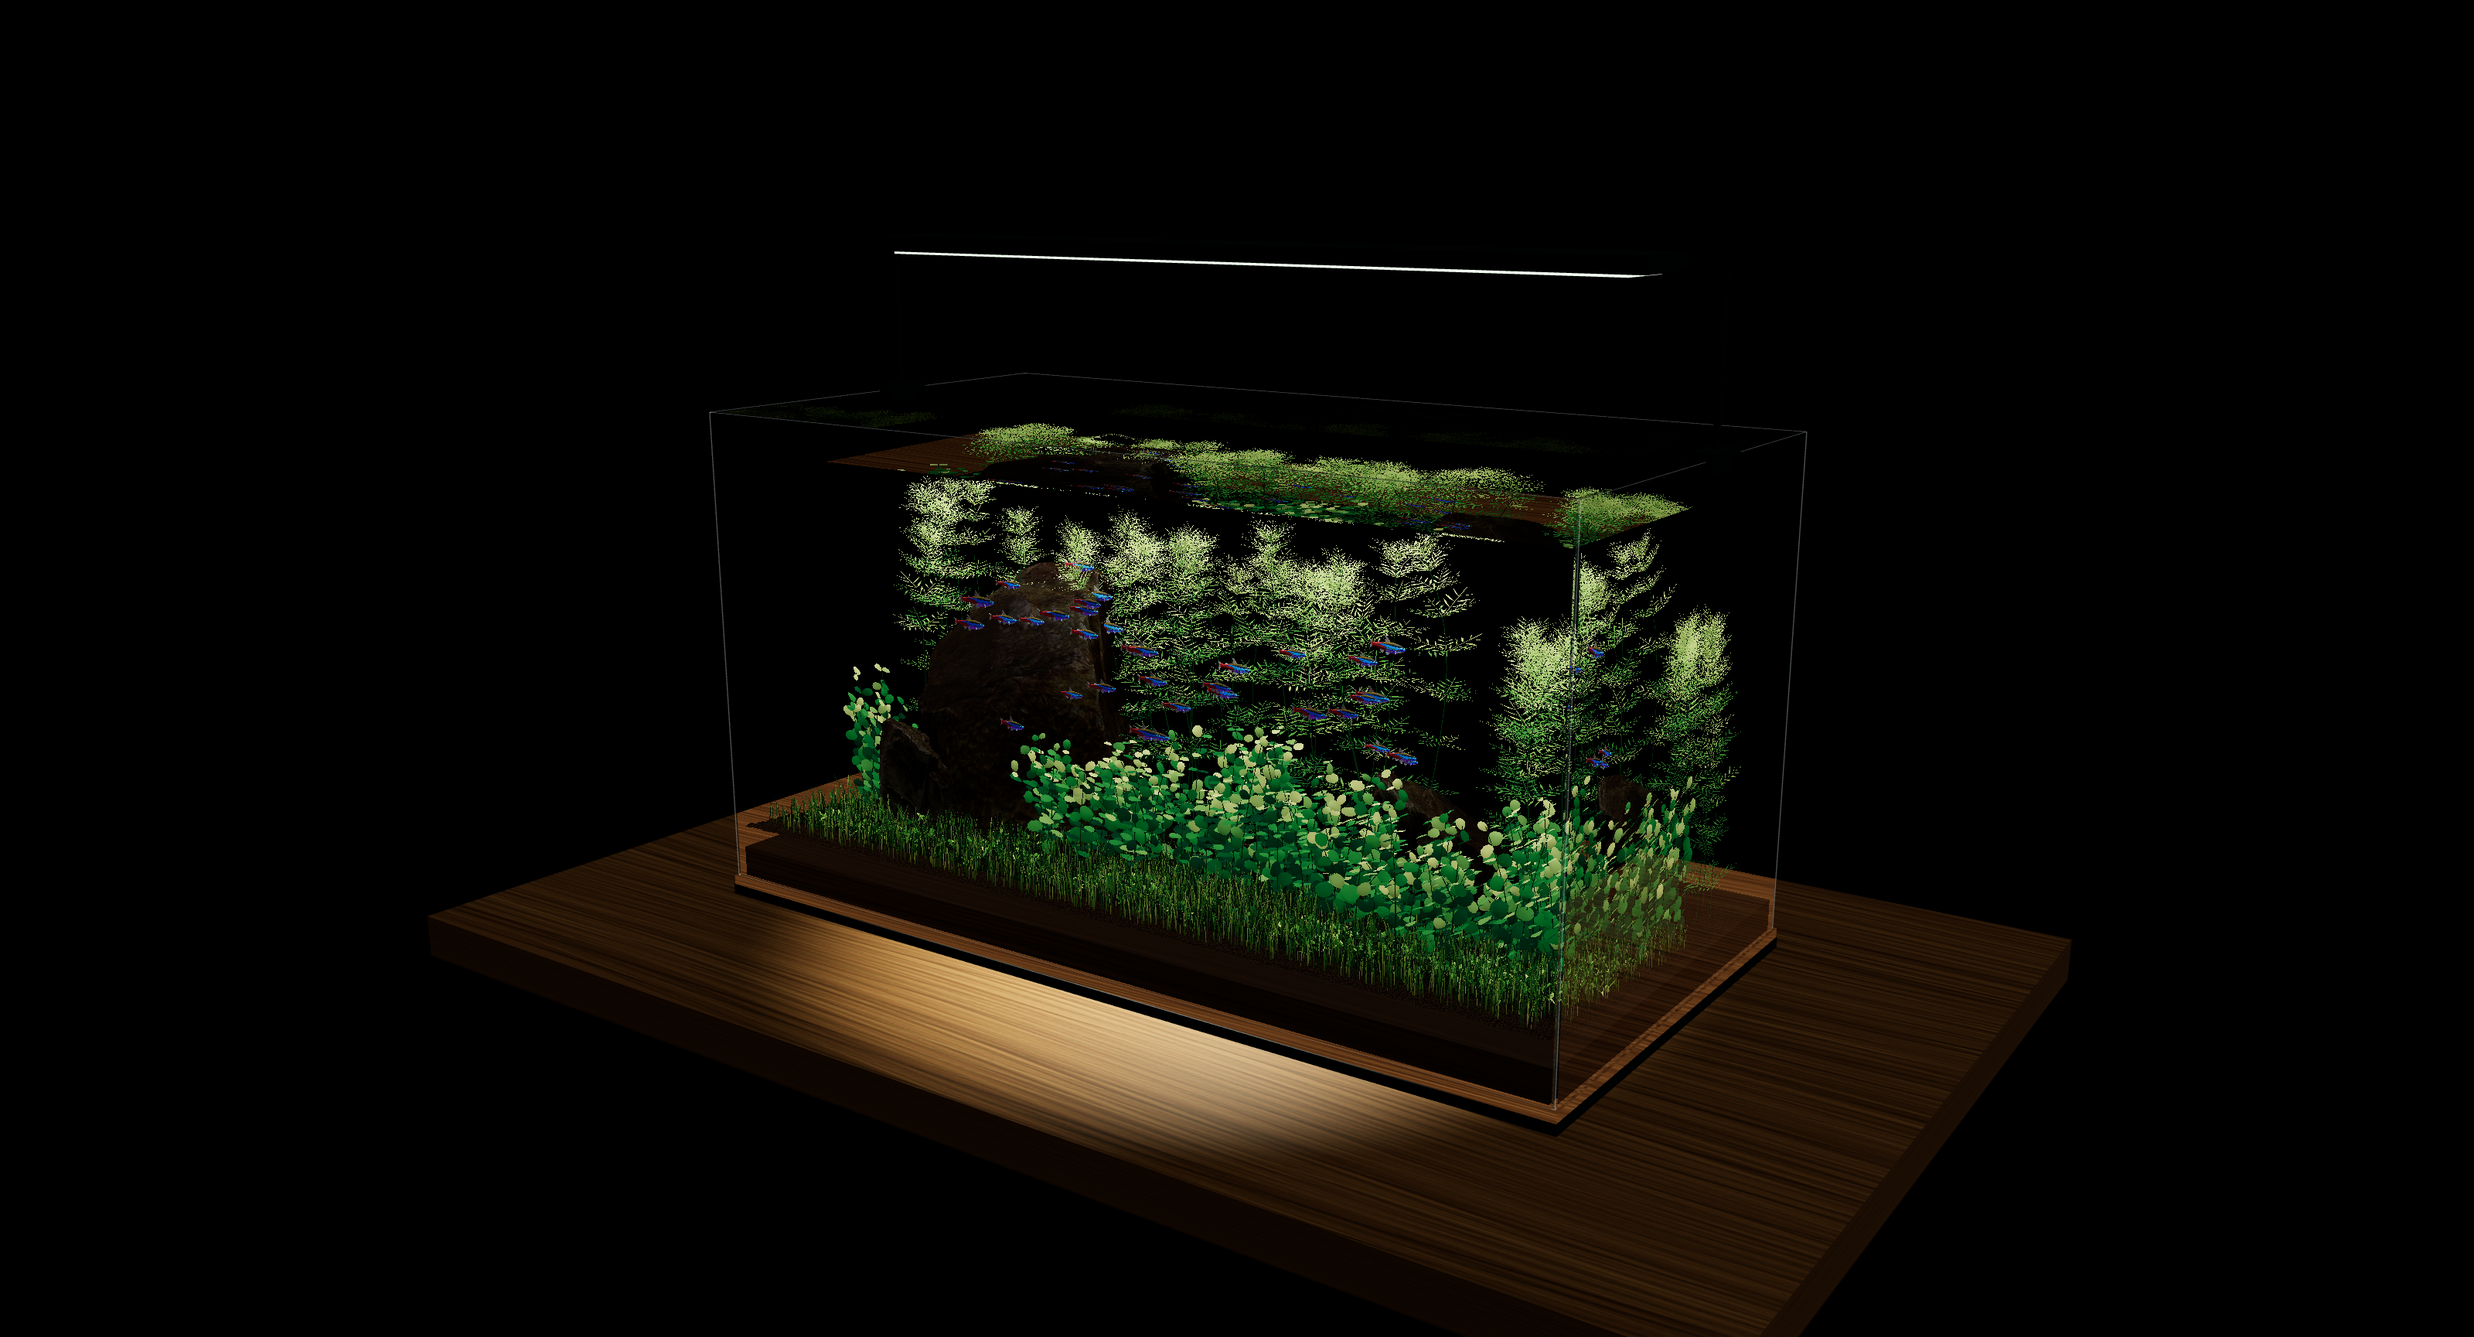
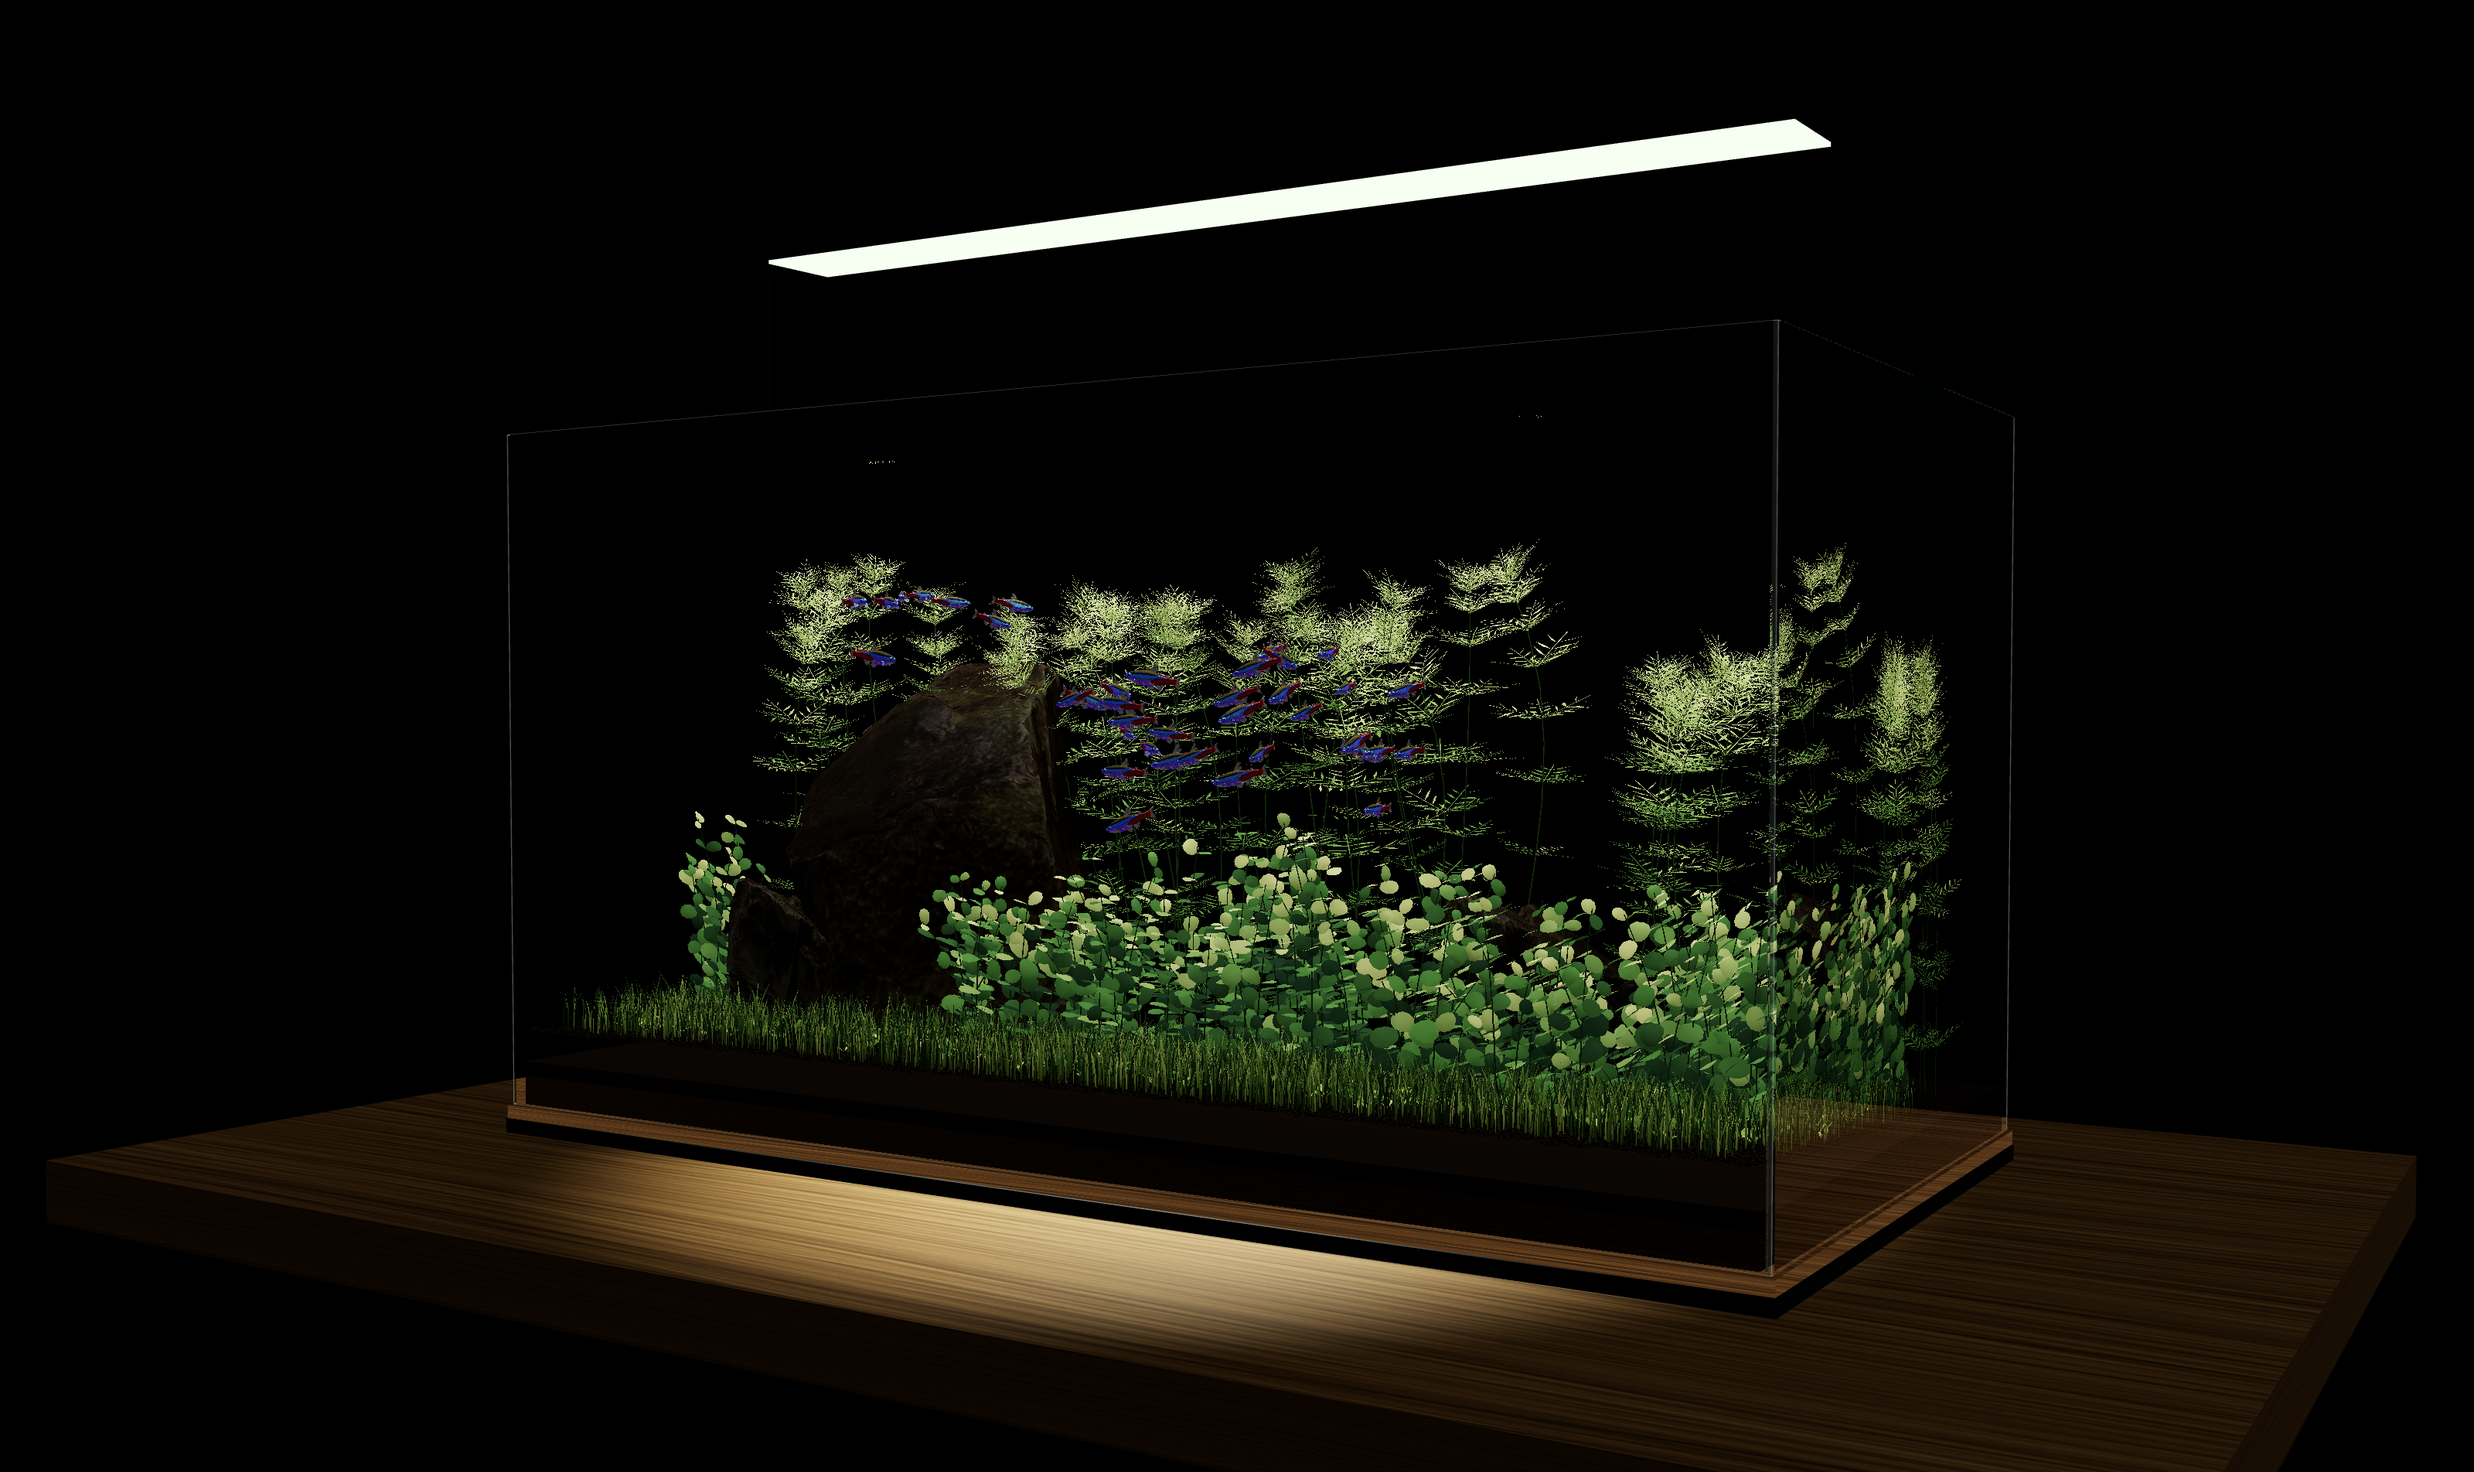
Refresh bilingual gallery with full-resolution aquarium views

Changed region(s): [[0.0312, 0.3123, 1.0, 1.0], [0.3125, 0.0625, 0.75, 0.1874], [0.6562, 0.9994, 0.6875, 1.0]]

diff --git a/README.en.md b/README.en.md
@@ -12,23 +12,27 @@ An interactive Three.js aquarium with water refraction, schooling fish, and proc
 
 **Aquascape**
 
-[![Aquascape close-up](docs/media/aquarium-detail-aquascape.png)](docs/media/aquarium-detail-aquascape.png)
+[![Aquascape overview](docs/media/aquarium-overview.png)](docs/media/aquarium-overview.png)
 
-**Neon tetras and ambulia**
+**Front close-up**
 
-[![Neon tetras swimming among ambulia](docs/media/aquarium-detail-school.png)](docs/media/aquarium-detail-school.png)
+[![Neon tetras and aquatic plants](docs/media/aquarium-front.png)](docs/media/aquarium-front.png)
 
-**Pearlweed and hairgrass**
+**Rear view**
 
-[![Pearlweed leaves and hairgrass carpet](docs/media/aquarium-detail-plants.png)](docs/media/aquarium-detail-plants.png)
+[![Aquascape from the rear](docs/media/aquarium-rear.png)](docs/media/aquarium-rear.png)
 
-<details>
-<summary>Full views</summary>
+**Side view**
 
-![Aquarium overview](docs/media/aquarium-overview.png)
-![Front view](docs/media/aquarium-front.png)
+[![Fish and plants from the side](docs/media/aquarium-side.png)](docs/media/aquarium-side.png)
 
-</details>
+**Surface refraction**
+
+[![Water refraction and reflections](docs/media/aquarium-surface.png)](docs/media/aquarium-surface.png)
+
+**Top view**
+
+[![Aquarium and light from above](docs/media/aquarium-top.png)](docs/media/aquarium-top.png)
 
 ## Features
 
@@ -62,7 +66,8 @@ npm run preview # Preview the build
 | Drag | Orbit the camera |
 | Scroll / pinch | Adjust viewing distance |
 | Click near the fish | Trigger a local startle response and surface ripples |
-| `S` | Save a PNG screenshot |
+| `1` / `2` / `3` | Switch to aquascape, fish, or plant close-ups |
+| `S` | Save a 3840 × 2160 PNG screenshot |
 | `R` | Export a 24-second 1080p demo video |
 
 ## Project structure

diff --git a/README.md b/README.md
@@ -12,23 +12,27 @@
 
 **水草造景**
 
-[![水草造景近景](docs/media/aquarium-detail-aquascape.png)](docs/media/aquarium-detail-aquascape.png)
+[![水草造景全景](docs/media/aquarium-overview.png)](docs/media/aquarium-overview.png)
 
-**霓虹灯鱼与宝塔草**
+**正面近景**
 
-[![霓虹灯鱼与宝塔草细节](docs/media/aquarium-detail-school.png)](docs/media/aquarium-detail-school.png)
+[![霓虹灯鱼与水草近景](docs/media/aquarium-front.png)](docs/media/aquarium-front.png)
 
-**珍珠草与牛毛草**
+**背面视角**
 
-[![珍珠草叶片与牛毛草草坪细节](docs/media/aquarium-detail-plants.png)](docs/media/aquarium-detail-plants.png)
+[![背面水草造景](docs/media/aquarium-rear.png)](docs/media/aquarium-rear.png)
 
-<details>
-<summary>全景视角</summary>
+**侧面视角**
 
-![鱼缸全景](docs/media/aquarium-overview.png)
-![正面视角](docs/media/aquarium-front.png)
+[![侧面鱼群与水草](docs/media/aquarium-side.png)](docs/media/aquarium-side.png)
 
-</details>
+**水面折射**
+
+[![水面折射与倒影](docs/media/aquarium-surface.png)](docs/media/aquarium-surface.png)
+
+**俯视视角**
+
+[![俯视鱼缸与灯光](docs/media/aquarium-top.png)](docs/media/aquarium-top.png)
 
 ## 功能
 
@@ -62,7 +66,8 @@ npm run preview # 预览构建结果
 | 拖动 | 环绕观察 |
 | 滚轮 / 双指缩放 | 调整观察距离 |
 | 点击鱼群附近 | 触发局部惊吓与水面扰动 |
-| `S` | 保存 PNG 截图 |
+| `1` / `2` / `3` | 切换造景、鱼群、水草近景 |
+| `S` | 保存 3840 × 2160 PNG 截图 |
 | `R` | 导出 24 秒的 1080p 演示视频 |
 
 ## 代码结构

diff --git a/docs/media/README.md b/docs/media/README.md
@@ -4,11 +4,12 @@
 
 | 文件 | 规格 |
 | --- | --- |
-| [水草造景近景](aquarium-detail-aquascape.png) | 1920 × 1080，PNG |
-| [霓虹灯鱼与宝塔草](aquarium-detail-school.png) | 1280 × 720，PNG |
-| [珍珠草与牛毛草](aquarium-detail-plants.png) | 1280 × 720，PNG |
-| [全景截图](aquarium-overview.png) | 3200 × 1729，PNG |
-| [正面截图](aquarium-front.png) | 1920 × 1080，PNG |
+| [水草造景](aquarium-overview.png) | 3200 × 1904，PNG |
+| [正面近景](aquarium-front.png) | 3200 × 2000，PNG |
+| [背面视角](aquarium-rear.png) | 3200 × 1904，PNG |
+| [侧面视角](aquarium-side.png) | 3200 × 2000，PNG |
+| [水面折射](aquarium-surface.png) | 3200 × 1904，PNG |
+| [俯视视角](aquarium-top.png) | 3200 × 1904，PNG |
 | [演示预览](aquarium-preview.gif) | 640 × 360，GIF |
 | [1080p 演示](aquarium-demo.mp4) | 1920 × 1080，30 fps，24 秒，MP4 |
 | [4K 演示](https://github.com/Candela683/stillwater-aquarium/releases/latest/download/aquarium-demo-4k.mp4) | 3840 × 2160，30 fps，24 秒，MP4 |
